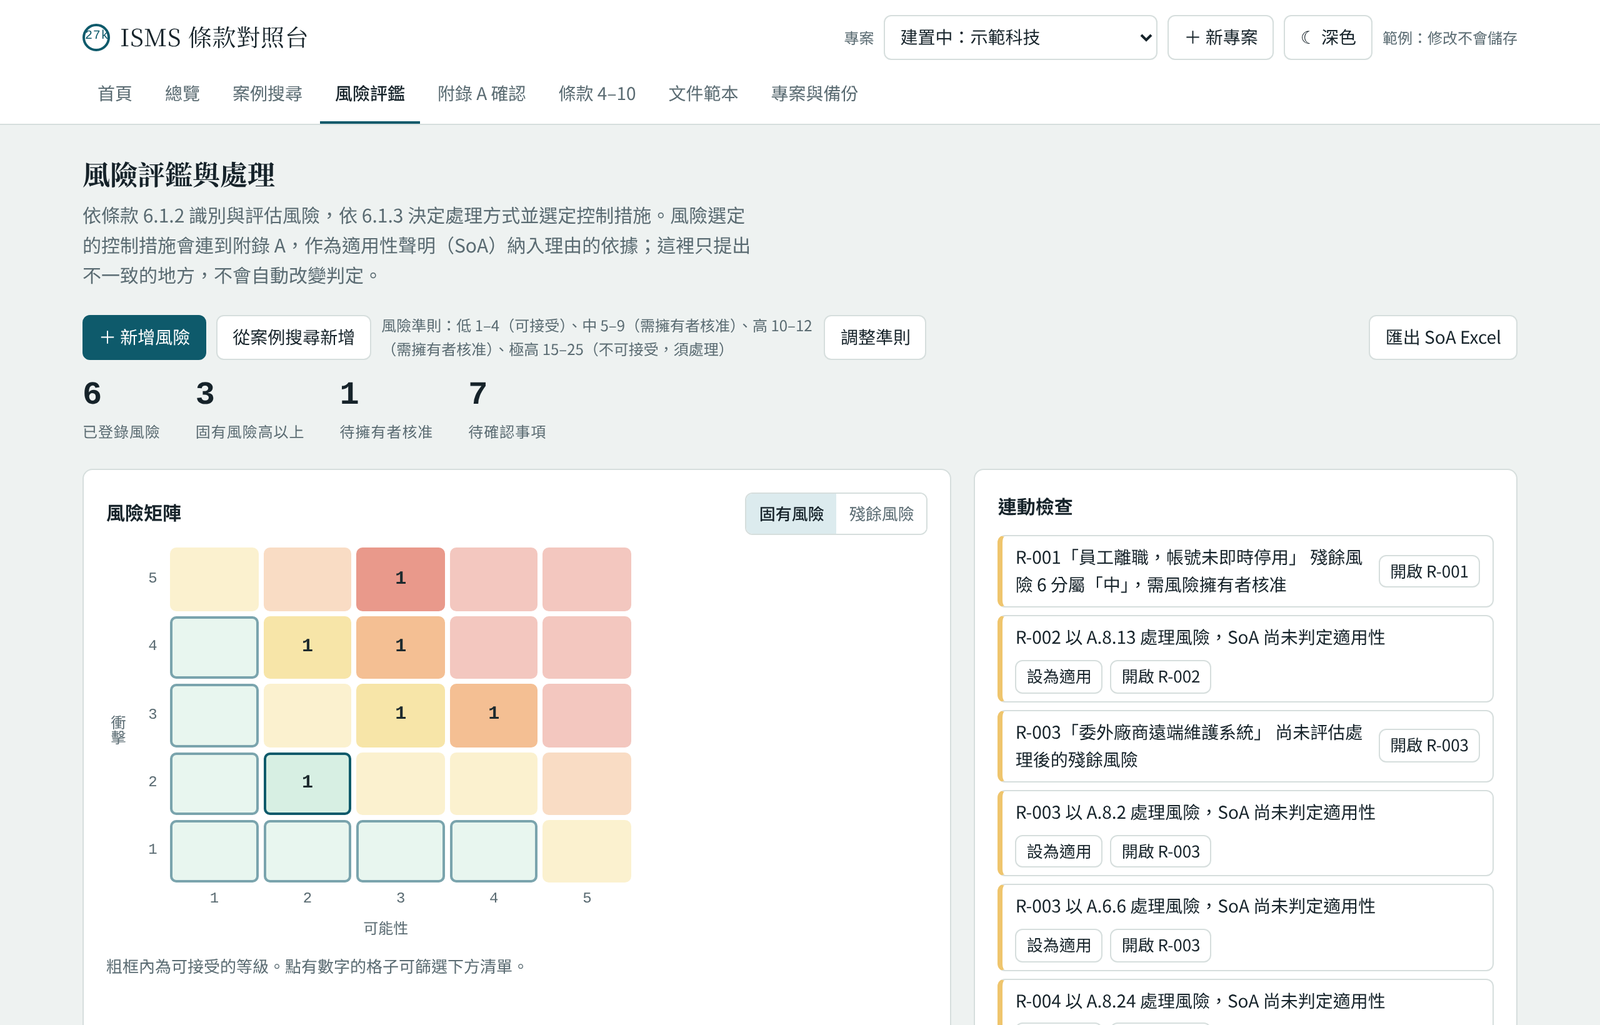
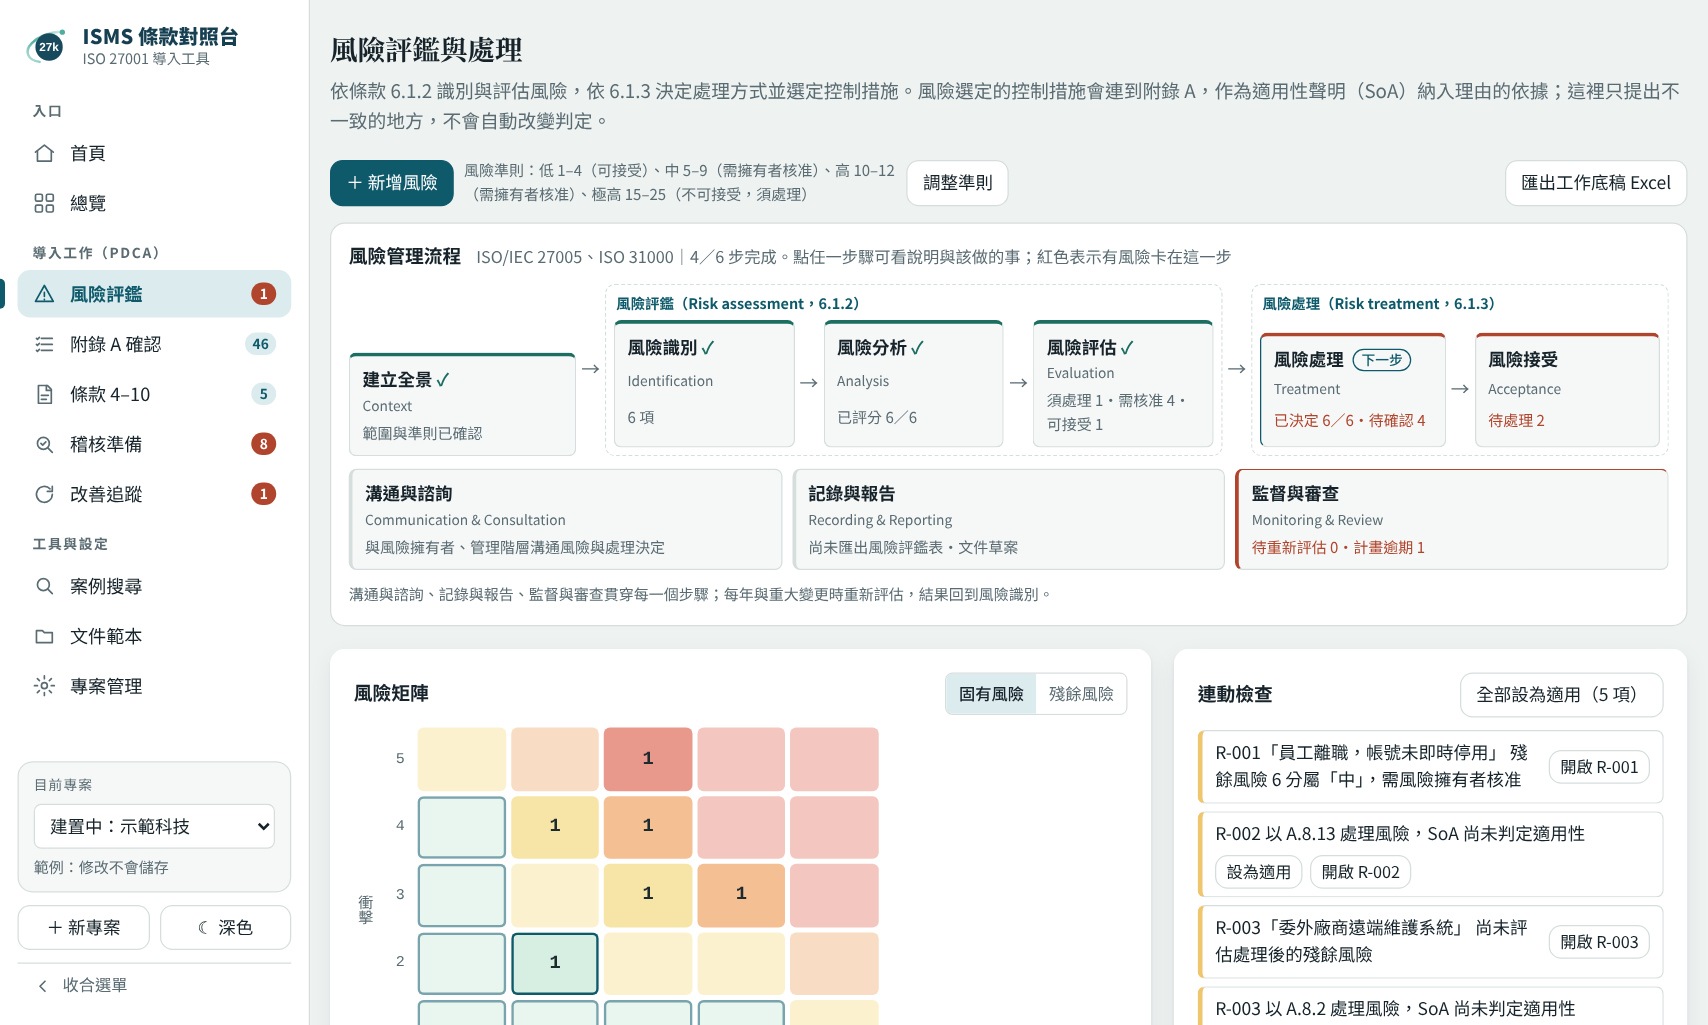
README：功能說明與截圖更新為新版面
Claude-Session: https://claude.ai/code/session_01EDnij5MaTqGMDcNPJTi26P

diff --git a/README.md b/README.md
@@ -23,21 +23,23 @@
 
 | 功能 | 說明 |
 |---|---|
+| 版面 | 左側選單依「入口／導入工作（PDCA）／工具與設定」分組，逾期與可能不符合以紅色數字、待判定與待實施以淺色數字直接顯示在選單上；選單可收合成只剩圖示；寬螢幕上詳細頁接在內容右側，筆電上打開詳細頁時選單自動縮起；手機改為抽屜選單 |
 | 導入進度與下一步建議 | 總覽上方以 8 個步驟圖示顯示導入進度（範圍 → 準則 → 風險評鑑 → 處理・SoA → 核准 → 落實 → 稽核 → 改善），依專案資料自動判斷完成與目前步驟，點圓點可看該步驟的狀況與待辦；下方列出最該做的事（逾期、衝突優先），每項附前往按鈕 |
-| 稽核準備 | 獨立分頁（總覽有一行摘要），把同一份資料換成驗證稽核的角度：第一階段（文件審查）看範圍、風險評鑑、SoA 與核准，第二階段（實施查核）看證據、處理計畫執行、內部稽核、管理審查與矯正措施。每項標示可能不符合、可能列為觀察、資料齊全或尚無資料，附稽核員常問的問題、「怎樣算資料齊全」的條件與前往按鈕；為參考判斷，不代表實際稽核結果。資料齊全只代表工具裡的資料沒有缺口，證據檔案仍需抽查 |
+| 稽核準備 | 獨立分頁（總覽的第四張數字卡顯示可能不符合的項目數），把同一份資料換成驗證稽核的角度：第一階段（文件審查）看範圍、風險評鑑、SoA 與核准，第二階段（實施查核）看證據、處理計畫執行、內部稽核、管理審查與矯正措施。每項標示可能不符合、可能列為觀察、資料齊全或尚無資料，附稽核員常問的問題、「怎樣算資料齊全」的條件與前往按鈕；為參考判斷，不代表實際稽核結果。資料齊全只代表工具裡的資料沒有缺口，證據檔案仍需抽查 |
+| 送審確認單 | 稽核準備的「列印送審確認單」把系統判斷整理成 A4 一頁，加上工具看不到的人工確認事項（管理階層核准、證據檔案可開啟等）與資安窗口、管理代表簽名欄；系統判斷不提供手動勾選，避免與資料不一致 |
 | 追蹤鏈 | 控制措施與風險的詳細頁顯示稽核員會怎麼往下追：控制措施是「為什麼要做 → SoA 判定 → 負責人 → 執行 → 證據 → 改善紀錄」，風險是「識別 → 評估 → 處理方式 → 控制措施 → 處理計畫 → 殘餘風險與核准 → 改善紀錄」。斷掉的地方標紅，點連結可開啟相關的風險、控制措施或改善事項，並可返回 |
 | 模擬抽查 | 稽核準備分頁的「模擬抽查」，像稽核員一樣從已實施、已驗證的控制措施抽樣（偏重高風險引用、2022 新增、從未或超過一年未確認的項目），另可抽高風險追處理計畫。逐項打開證據確認，找不到的自動建立觀察事項；結果存成抽查紀錄並可匯出 Excel，確認日期會顯示在追蹤鏈，超過一年未確認列為觀察 |
 | 確認人與合理性檢查 | 已驗證的項目與風險識別完成都記錄確認人，稽核準備標出沒有記錄或由負責人自己確認的項目；並找出評分上的矛盾，例如發生過相關資安事件卻把可能性評得很低、沒寫評分依據、所有風險分數相同、所有風險由同一人擁有 |
 | 反向查詢 | 稽核準備分頁的「反向查詢」，從人員、資產或系統、文件或證據、事件或改善事項往回追，列出對應的控制措施、條款、風險與改善事項，並提示可能的缺口，例如沒有任何風險提到某套系統、事件相關的風險可能性評得很低 |
 | 協辦單位 | 跨單位執行的控制措施，主責之外可填多個協辦單位，反向查詢、追蹤鏈、抽查請求、負責人工作量與 Excel 都會帶出 |
-| 案例搜尋 | 內建 108 個實務情境（含 DDoS、暴力破解、商業郵件詐騙、生成式 AI 等攻擊與新興風險）與同義詞字典，輸入「退職」「帳號沒關」「被駭了」也能找到對應條款；可新增組織自己的自訂案例，與內建案例一起搜尋並隨專案檔匯出 |
+| 案例搜尋 | 內建 108 個實務情境（含 DDoS、暴力破解、商業郵件詐騙、生成式 AI 等攻擊與新興風險）與同義詞字典，輸入「退職」「帳號沒關」「被駭了」也能找到對應條款；可新增組織自己的自訂案例，與內建案例一起搜尋並隨專案檔匯出；自訂案例可匯出成案例庫，再匯入其他專案重複使用 |
 | 風險評鑑與處理 | 依 6.1.2／6.1.3 登錄風險（資產、威脅、脆弱性、現有控制），5×5 矩陣評估固有與殘餘風險、選擇處理方式與控制措施；可從案例一鍵建立風險，並依描述建議控制措施；上方的風險管理流程圖（ISO/IEC 27005）顯示每一步的進度，點一下篩選卡住的風險 |
 | 自訂風險準則 | 2–4 個等級，各自設定分數上限與處理原則（可接受／需擁有者核准／不可接受），內建四級與三級兩種組合，連動檢查依準則判斷是否須處理或核准；可寫下可能性與衝擊各級的定義（附參考範例），評分時顯示在風險詳細頁，並匯出到「風險評鑑準則」工作表 |
 | 風險與 SoA 連動 | 檢查「被風險引用卻判為不適用」「理由寫依風險評鑑卻沒有風險引用」「殘餘風險未經擁有者核准」等稽核常見缺口 |
 | 附錄 A 逐項確認 | 93 項控制措施的適用性、納入／排除理由、執行狀態、負責人與證據位置；可依產品／服務生命週期（需求 → 設計開發 → 查證確證 → 轉移上線 → 監控營運 → 重新評估 → 處置退休）檢視各階段相關的控制措施 |
 | 條款 4–10 追蹤 | 管理系統本文條款依 PDCA 分組追蹤，上方的 PDCA 循環圖顯示各階段完成情形，點階段可列出條款 |
 | 產業建議重點 | 依產業與業務特性（會員個資、線上付款、自行開發、OT 設備、上市櫃等）標示建議優先關注的控制措施，並提示相關法規 |
-| 總覽圖表 | 最上方一列整體狀況（已實施比例、狀態分布、各主題進度），下方是附錄 A 熱圖與負責人工作量；點圖表可直接列出對應項目 |
+| 總覽 | 最上方四張數字卡：已實施比例、未決定適用性、逾期處理計畫、稽核準備可能不符合，點卡片直接列出相關項目；下方是狀態分布、各主題進度、附錄 A 熱圖與負責人工作量，點圖表可列出對應項目 |
 | Excel 匯出 | 兩種版本：**稽核用 SoA** 為正式文件格式（主題、編號、名稱、適用性、理由代碼、執行狀態、實施方式／排除理由、證據位置），統計以公式計算，可直接提供稽核；**工作底稿** 另含產業建議、關聯風險、風險登錄表、風險評鑑準則、連動檢查、改善追蹤、條款檢核、統計摘要與修改紀錄。每個工作表附文件管制表頭（文件編號、版次、核准人），SoA 附簽核欄 |
 | Excel 範本與匯入 | 提供空白範本、虛構公司填寫範例與權限申請／複審表單；在 Excel 填好後匯入即可檢查。匯入依欄位名稱辨識，也能讀取欄名相近的自訂 SoA 與風險評鑑表（例如「是否適用」「選擇理由 RA、BP」「實施狀態 待驗證」） |
 | ISMS 文件範本 | 依五層架構（手冊、政策、程序、表單、紀錄）提供 32 份 Word／Excel 範本，涵蓋條款 4–10 要求保存的所有文件化資訊；可依條款查詢對應範本，控制措施與條款的詳細頁也會列出相關文件，可一次下載 ZIP |
